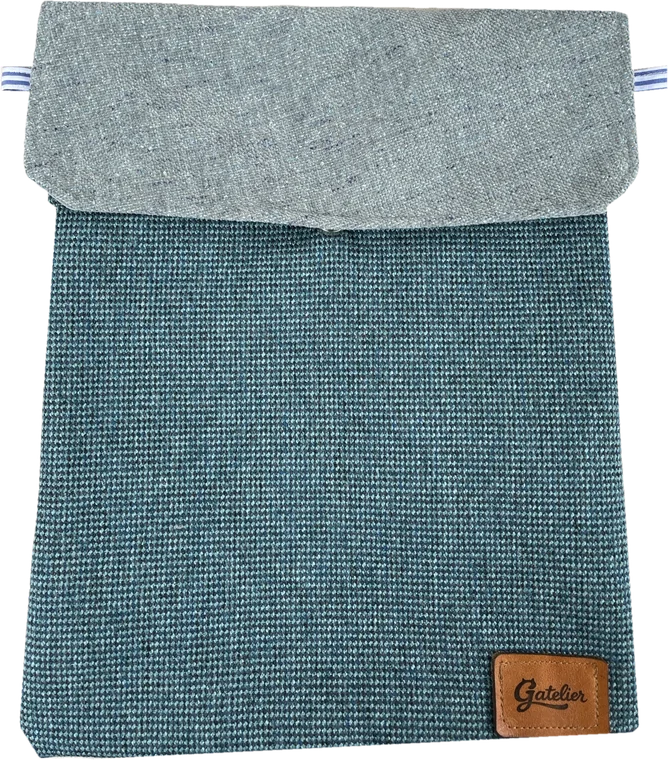
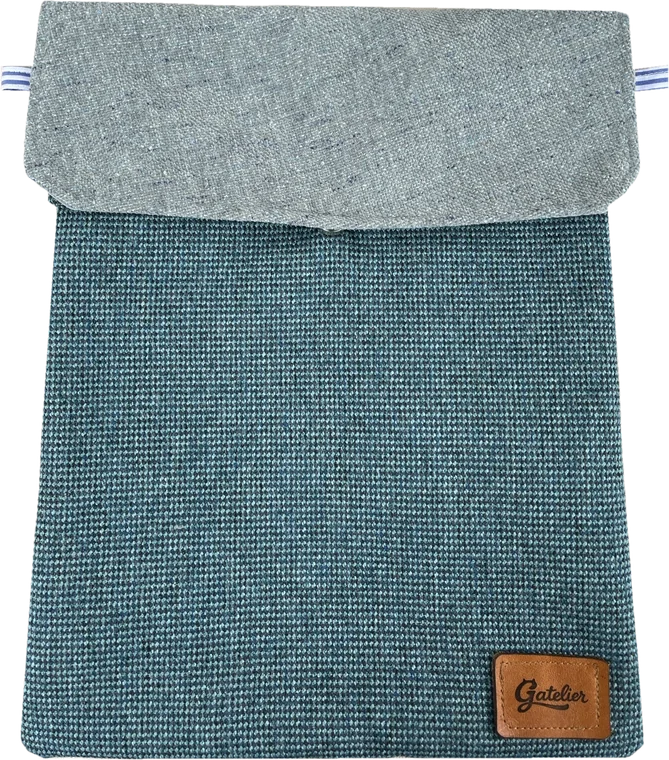
Colección: base completa en la foto de la talla XL
Claude-Session: https://claude.ai/code/session_01UTFjnRfwxgxUd6XFAy6NGv

diff --git a/frontend/index.html b/frontend/index.html
@@ -399,7 +399,7 @@
       {code:'S',w:17,h:24,price:75000,color:'Verde salvia y espiga',image:'talla-s.webp?v=3',alt:'Funda talla S verde salvia con solapa crema en espiga',fits:['Libro en formato estándar','iPad mini','Cuaderno A5']},
       {code:'M',w:20,h:29,price:80000,color:'Azul grisáceo y rosa',image:'talla-m.webp?v=3',alt:'Funda talla M azul grisáceo con solapa rosa',fits:['Libro de tapa dura','iPad de 11 pulgadas','Cuaderno B5']},
       {code:'L',w:22,h:30,price:85000,color:'Gris y lino',image:'talla-l.webp?v=3',alt:'Funda talla L gris con solapa color lino',fits:['Libro ilustrado','Libreta o planeador grande','iPad de 11 pulgadas con estuche']},
-      {code:'XL',w:27,h:33,price:90000,color:'Petróleo y gris',image:'talla-xl.webp?v=3',alt:'Funda talla XL petróleo con solapa gris',fits:['Libro de arte o de gran formato','Portátil de 13 pulgadas','Cuaderno carta o A4']}
+      {code:'XL',w:27,h:33,price:90000,color:'Petróleo y gris',image:'talla-xl.webp?v=4',alt:'Funda talla XL petróleo con solapa gris',fits:['Libro de arte o de gran formato','Portátil de 13 pulgadas','Cuaderno carta o A4']}
     ];
     const MARGIN=1.5;
     const sizeMsg=s=>`Hola, vi en la página de Gatelier el producto talla ${s.code} (${s.w} × ${s.h} cm, ${money(s.price)}). ¿Me confirman qué combinaciones tienen disponibles?`;
